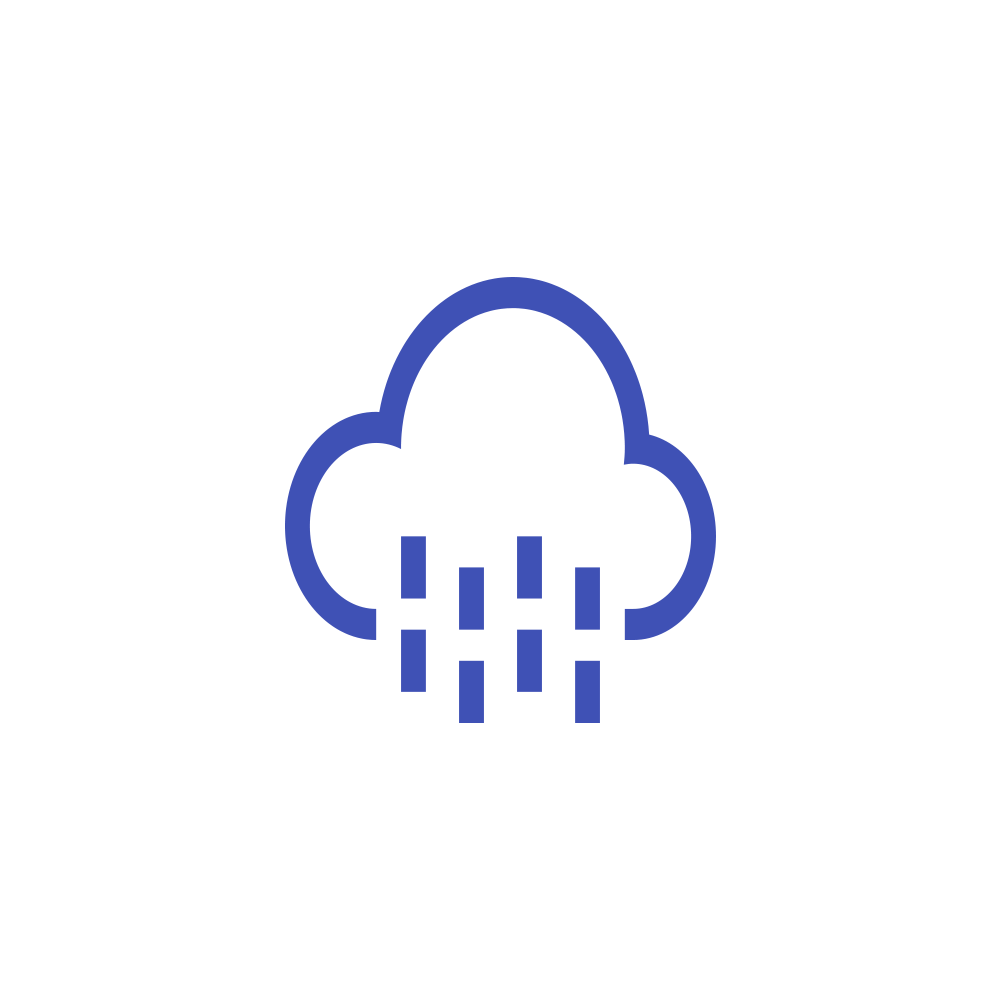
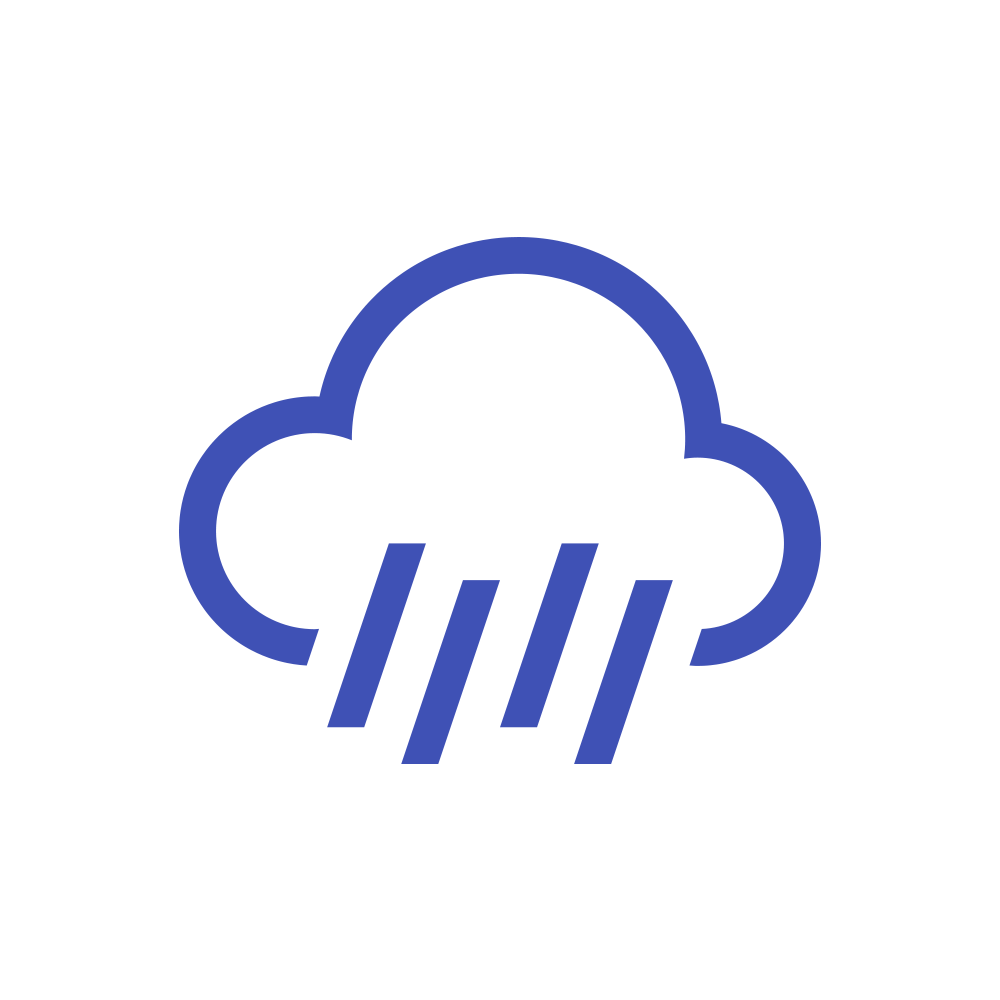
add more images that visualize current weather

Changed region(s): [[0.155, 0.217, 0.837, 0.775]]

diff --git a/Client/WeatherApp-Client/src/app/shared/weatherConditions/weatherDescriptions.ts b/Client/WeatherApp-Client/src/app/shared/weatherConditions/weatherDescriptions.ts
@@ -22,30 +22,30 @@ export function determineCurrentWeatherImage(main: string): string {
     case WeatherDescriptions.Thunderstorm:
       return WeatherImagesUrls.storm;
     case WeatherDescriptions.Drizzle:
-      return WeatherImagesUrls.storm;
+      return WeatherImagesUrls.drizzle;
     case WeatherDescriptions.Rain:
       return WeatherImagesUrls.rainWOSun;
     case WeatherDescriptions.Mist:
-      return WeatherImagesUrls.storm;
+      return WeatherImagesUrls.mist;
     case WeatherDescriptions.Smoke:
-      return WeatherImagesUrls.storm;
+      return WeatherImagesUrls.mist;
     case WeatherDescriptions.Haze:
-      return WeatherImagesUrls.storm;
+      return WeatherImagesUrls.mist;
     case WeatherDescriptions.Fog:
-      return WeatherImagesUrls.storm;
+      return WeatherImagesUrls.mist;
     case WeatherDescriptions.Sand:
-      return WeatherImagesUrls.storm;
+      return WeatherImagesUrls.mist;
     case WeatherDescriptions.Dust:
-      return WeatherImagesUrls.storm;
+      return WeatherImagesUrls.mist;
     case WeatherDescriptions.Ash:
-      return WeatherImagesUrls.storm;
+      return WeatherImagesUrls.mist;
     case WeatherDescriptions.Squall:
-      return WeatherImagesUrls.storm;
+      return WeatherImagesUrls.mist;
     case WeatherDescriptions.Tornado:
       return WeatherImagesUrls.storm;
     case WeatherDescriptions.Clear:
       return WeatherImagesUrls.sunny;
     case WeatherDescriptions.Clouds:
-      return WeatherImagesUrls.sunWithClouds;
+      return WeatherImagesUrls.cloudsAll;
   }
 }

diff --git a/Client/WeatherApp-Client/src/app/shared/services/comunication.service.ts b/Client/WeatherApp-Client/src/app/shared/services/comunication.service.ts
@@ -2,10 +2,15 @@ import { Injectable } from "@angular/core";
 import * as signalR from "@aspnet/signalr";
 import { WeatherNotificationModel } from "../models/weatherNotification.model";
 import { NotificationsService } from "./notifications.service";
+import { determineCurrentWeatherImage } from "../weatherConditions/weatherDescriptions";
+import { HttpClient } from "@angular/common/http";
 
 @Injectable()
 export class ComunicationService {
-  constructor(private notificationsService: NotificationsService) {
+  constructor(
+    private notificationsService: NotificationsService,
+    private client: HttpClient
+  ) {
     this.hub = new signalR.HubConnectionBuilder()
       .withUrl(this.hubUrl)
       .configureLogging(signalR.LogLevel.Information)
@@ -27,6 +32,13 @@ export class ComunicationService {
 
   removeConnectionID(): void {
     localStorage.removeItem("connectionID");
+  }
+
+  tryGetConnectionID(userID) {
+    console.log("Getting");
+
+    let url = `https://localhost:44377/api/Notifications/getUserID/${userID}`;
+    return this.client.get(url);
   }
 
   connect(): boolean {
@@ -61,7 +73,9 @@ export class ComunicationService {
 
       let model: WeatherNotificationModel = {
         CityName: res.responseBody.name,
-        ImageUrl: "../../../assets/Images/weatherIcons/sunny.png",
+        ImageUrl: determineCurrentWeatherImage(
+          res.responseBody.weather[0].main
+        ),
         TempC: res.responseBody.main.tempC,
         WeatherDescription: res.responseBody.weather[0].description,
       };

diff --git a/Client/WeatherApp-Client/src/app/notifications-register/notifications-register.component.ts b/Client/WeatherApp-Client/src/app/notifications-register/notifications-register.component.ts
@@ -36,10 +36,23 @@ export class NotificationsRegisterComponent implements OnInit {
       Email: ["", [Validators.required, Validators.email]],
       CityName: ["", Validators.required],
     });
-    console.log(`Calling from id: ${localStorage.getItem("userID")}`);
 
-    if (this.notificationsService.GetUserID != null || undefined)
-      this.notificationsService.getNotification().subscribe();
+    if (this.comunicationService.GetConnectionID == null) {
+      console.log("here");
+
+      this.comunicationService
+        .tryGetConnectionID(this.notificationsService.GetUserID)
+        .subscribe((res) => {
+          if (res != null || undefined)
+            this.comunicationService.setConnectionID(res as string);
+
+          this.notificationsService.getNotification().subscribe();
+        });
+
+      return;
+    }
+
+    this.notificationsService.getNotification().subscribe();
   }
 
   onSubmit(): void {

diff --git a/Client/WeatherApp-Client/src/app/shared/weatherConditions/weatherImagesUrls.ts b/Client/WeatherApp-Client/src/app/shared/weatherConditions/weatherImagesUrls.ts
@@ -7,4 +7,7 @@ export class WeatherImagesUrls {
     "../../assets/Images/weatherIcons/rainWsunAndClouds.png";
   public static sunny = "../../assets/Images/weatherIcons/sunny.png";
   public static storm = "../../assets/Images/weatherIcons/stormWrain.png";
+  public static cloudsAll = "../../assets/Images/weatherIcons/cloudsall.png";
+  public static drizzle = "../../assets/Images/weatherIcons/drizzle.png";
+  public static mist = "../../assets/Images/weatherIcons/mist.png";
 }

diff --git a/Web/WeatherApp.API/Controllers/NotificationsController.cs b/Web/WeatherApp.API/Controllers/NotificationsController.cs
@@ -48,11 +48,15 @@ namespace WeatherApp.API.Controllers
             return BadRequest("Something bad has happened while trying to add new notification");
         }
 
-        [HttpGet("getUserID/{email}")]
+        [HttpGet("getUserID/{userID}")]
         public ActionResult<string> GetUserConnectionID(string userID)
         {
+            string userConnectionID = _notificationsService.GetUserConnectionID(userID);
 
-            return Ok();
+            if(!string.IsNullOrEmpty(userConnectionID))
+                return Ok();
+
+            return NotFound($"Cannot find connections for id of { userID }");
         }
 
         //This is a temporary method to test connection with client trought SignalR

diff --git a/Web/WeatherApp.API/Services/Implementation/NotificationsService.cs b/Web/WeatherApp.API/Services/Implementation/NotificationsService.cs
@@ -63,6 +63,17 @@ namespace WeatherApp.API.Services.Implementation
 
         public async Task<IEnumerable<Notification>> GetAllAsync() => await _dbContext.Notifications.ToListAsync();
 
+        public string GetUserConnectionID(string userID)
+        {
+            HashSet<string> connections = _connectionManager.GetConnections(userID);
+
+            if (connections == null)
+                return string.Empty;
+
+            return connections.FirstOrDefault();
+
+        }
+
         public string GetUserID(string email) => _dbContext.Notifications.Where(user => user.UserEmail == email).FirstOrDefault().UserID;
 
         public async Task SendNotification<T>(string userID, T body)

diff --git a/Web/WeatherApp.API/Services/Services/INotificationsService.cs b/Web/WeatherApp.API/Services/Services/INotificationsService.cs
@@ -12,5 +12,6 @@ namespace WeatherApp.API.Services.Services
         Task SendNotification<T>(string userID, T body);
         string GenerateUserID();
         string GetUserID(string email);
+        string GetUserConnectionID(string userID);
     }
 }
